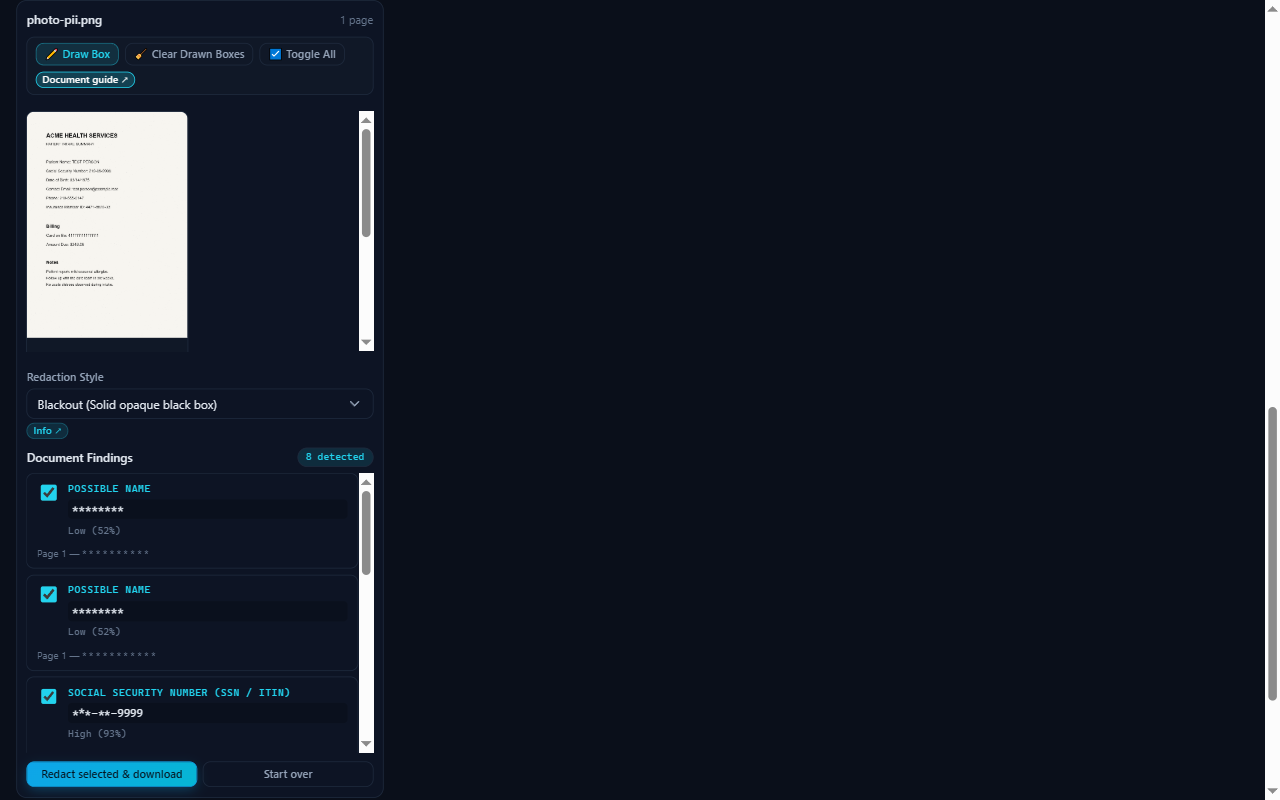
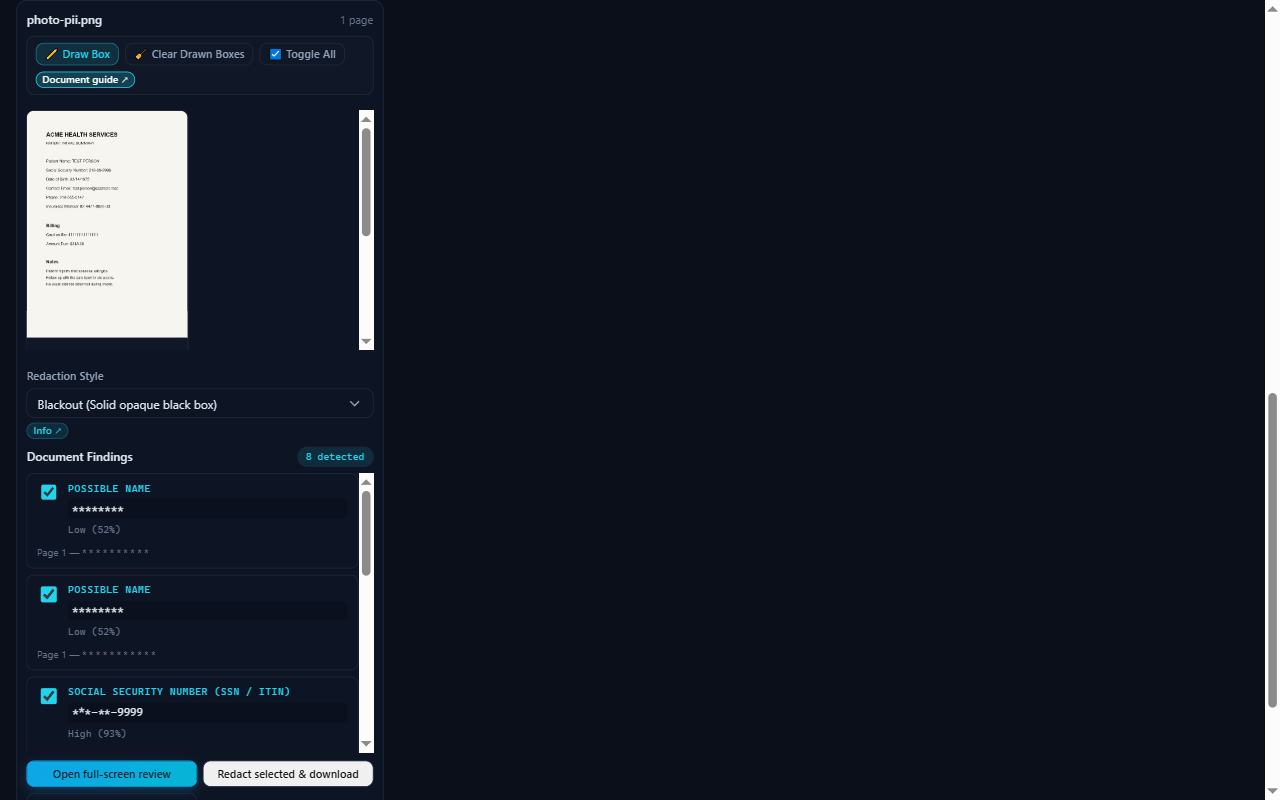
Regenerate store screenshots for 0.1.1 and repoint the submission package
04-document-studio.png showed the popup hero that 0.1.1 removes, and 01/02
shifted when it was removed. Digests are re-recorded against the committed
blobs.

Also fixes a digest that had drifted: docs/submission-package.md recorded a
SHA-256 that never matched the artifact it named, so the file the dashboard was
told to upload could not be verified against the value shown beside it.

diff --git a/docs/submission-package.md b/docs/submission-package.md
@@ -5,16 +5,23 @@ below is verified against the built artifact; nothing here needs to be
 re-derived at upload time.
 
 - **Target:** Chrome Web Store, single purpose, listing type "Extension"
-- **Artifact:** `release/governworld-redaction-c273fd0.zip`
[1 lines of base64/hex data omitted]
-- **Version:** 0.1.0
+- **Artifact:** `release/governworld-redaction-0315091.zip`
[1 lines of base64/hex data omitted]
+- **Version:** 0.1.1
+- **Published:** https://github.com/ACR-LOGIC/governworld-extension/releases/tag/v0.1.1
+
+> The SHA previously recorded here (`67B9D565…`) never matched the artifact it
+> named — it drifted while the package was repointed across releases. It is now
+> the digest of the file actually being uploaded, and `npm run verify:digests`
+> checks the store assets. Verify the zip itself with:
+> `certutil -hashfile release\governworld-redaction-0315091.zip SHA256`
 - **Digests for every uploaded file:** `npm run verify:digests`
 
 ---
 
 ## 1. Package
 
-Upload `release/governworld-redaction-c273fd0.zip`. That is the file the
+Upload `release/governworld-redaction-0315091.zip`. That is the file the
 dashboard wants — not the tarball, and not `dist/`.
 
 Verified in the zip itself: `manifest_version: 3`, 28 files, `manifest.json` at
@@ -45,6 +52,12 @@ header lines ("Draft listing copy…" and "Review before submission…"). That i
 
 All images are generated from synthetic fixtures by `npm run capture:store` and
 `npm run capture:promo`. No real PII, no browser chrome, no user data.
+
+> **Before resubmitting: regenerate.** `04-document-studio.png` was captured
+> while the popup still had the decorative "Protection Active" banner, which
+> 0.1.1 removes. Run `npm run capture:store`, then `npm run verify:digests`.
+> Consider capturing the new full-screen review page instead or as well — it is
+> now the surface where redaction actually happens.
 
 ## 4. Privacy practices questionnaire
 

diff --git a/RELEASE_EVIDENCE.md b/RELEASE_EVIDENCE.md
@@ -141,20 +141,17 @@ not be presented as an independent third-party assessment.
 The Chrome Web Store listing uploads these images separately from the extension
 zip, so the zip checksum does not cover them. Digests of the committed files:
 
-> **Stale for v0.1.1.** `04-document-studio.png` was captured while the popup
-> still had the decorative "Protection Active" hero, which has since been
-> removed. The other screenshots are unaffected. Regenerate with
-> `npm run capture:store` before resubmitting the listing, then re-run
-> `npm run verify:digests`. The digests below are left as-is deliberately, so a
-> drift here fails CI loudly rather than passing on an image that no longer
-> matches the product.
+> Regenerated for v0.1.1 with `npm run capture:store`. `01`, `02` and `04` all
+> changed: `04-document-studio.png` because the popup no longer carries the
+> decorative "Protection Active" banner, and `01`/`02` because the popup layout
+> shifted when it was removed. `03` and `05` are byte-identical.
 
 ```
 A707493D3E702E0A6BE3E2D430C1736299FDB2AE6A6C2AD10C418B594C7ED5B9  release/images/promo-tile-440x280.png
-C25E77DEE0DB11AE8290C819A942B65395A6E8869421632EAE48A5043BDC109B  release/screenshots/01-protection-idle.png
-7C864FB252B93CCC9260D74387330667BF439F3C431C1242EA37DA8F95F16ADE  release/screenshots/02-findings-masked.png
+38667939A825CC888615AAF47C0678C87E36CF28E55E9211D1042713307F4652  release/screenshots/01-protection-idle.png
+85088D578276BD03B32DB821155EE2FC3DDC484B54A3872A37FA8E6AD8C3504C  release/screenshots/02-findings-masked.png
 38A2BE9D248CF98D51B640FA6C57ADA3EE9C75E62FB62F02DD6B1310E2DD3A1D  release/screenshots/03-page-masks-applied.png
-F6B8F30C9B75AB86D2EA03D1D57F9A1ED96AF15EEEC5951D5419E4E7B2C103EC  release/screenshots/04-document-studio.png
+87038818708C24782DC776B78C1B16AD735A70F829E82CEB208910AE94BC134B  release/screenshots/04-document-studio.png
 0281AF692C57497C768C1B086837A2D7C58B9253DFC7C46394E32D758FD52E67  release/screenshots/05-settings-about.png
 ```
 
